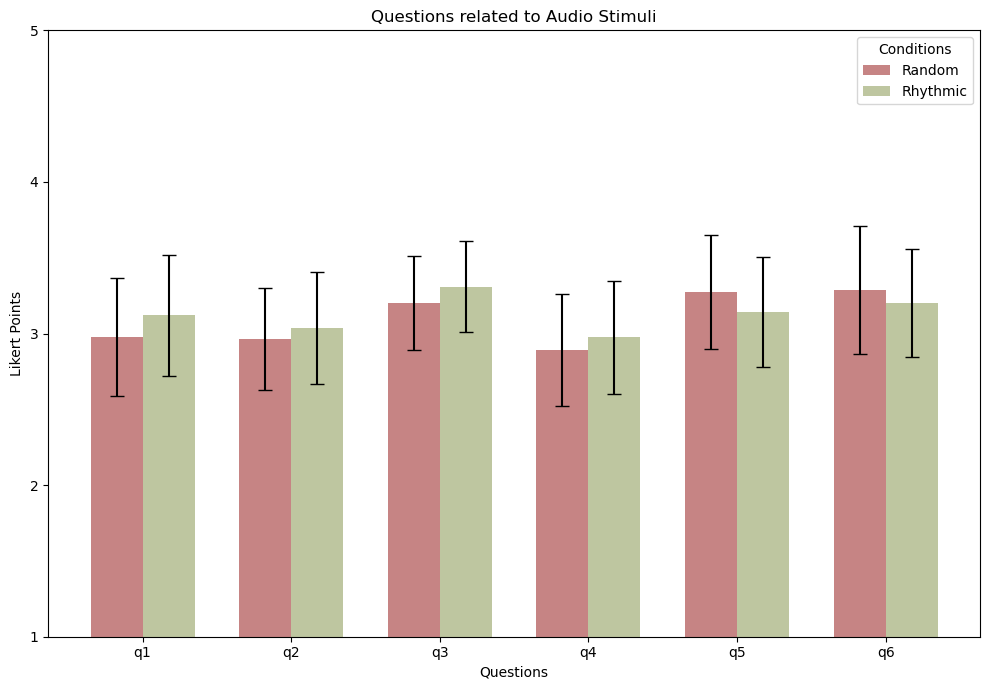
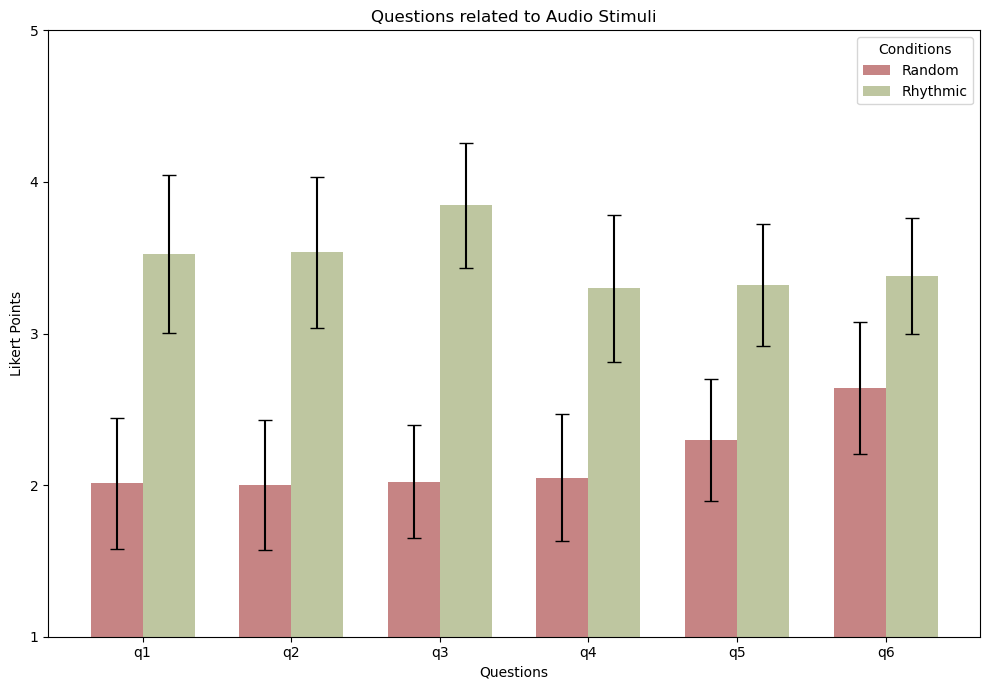
introduction and results fixed

diff --git a/Chapters/Introduction.tex b/Chapters/Introduction.tex
@@ -6,32 +6,26 @@ Even though a decrease in disability has been observed, stroke remains the leadi
 
 %% stroke: ischemic and hemorrhagic // cortical subcortical
 Stroke is divided in two main subtypes, drawn by the cause of it. The most common one results to be the ischemic stroke, it's produced by a blockage of blood vessels and comprehends TIAs (transient ischemic attacks) or mini-strokes, which only last for a few minutes up to 24 hours. The second type is the hemorrhagic stroke which is caused by bleeding in or around the brain, and it appears to cover just the 15\% of the cases \parencite{Abdu_2021}. \\
-On the other hand, if we look at the brain regions lesioned by stroke, it's possible to differentiate it between cortical and subcortical injuries. 
+On the other hand, if we look at the brain regions lesioned by stroke, it's possible to differentiate it between cortical and subcortical injuries, which can alter different cognitive (e.g. language, space orientation) and physical abilities (e.g. motor impairment, weakness), depending on the specific cerebral area and lobe affected. 
 
-% The mechanisms controlling the large-scale temporal coordination of infra-slow activity are unclear, particularly whether specific regions play a leading role in orchestrating global changes in connectivity patterns. A leading hypothesis is that shifts in brain states at rest, or during tasks, depend on highly interconnected cortical regions (hubs), e.g., precuneus, posterior cingulate cortex, and lateral prefrontal cortex, that flexibly interact at different points in time with different networks20–22. However, recent studies have also shown hubs in subcortical regions (basal ganglia23, thalamus23,24, hippocampus20,25–27). Whether cortical synchronization also relies on subcortical regions is still poorly known. Clinical work has shown FC dynamics alterations in a variety of non-focal conditions (neurodegeneration, consciousness abnormalities, schizophrenia, autism)17,19,28–31, which suggests that even more pronounced alterations should occur in focal conditions. Focal lesions, such as those induced by stroke, provide an ideal testbed to study the relations between brain structure and dynamics, since they considerably amplify the natural range of inter-subject variability in anatomical as well as functional connectivity. Subcortical lesions produce widespread functional alterations of the ‘static’ network structure—an anomalous inter-hemispheric segregation and intra-hemispheric integration32–34. Recent studies indicate that lesions induce anomalies also at the dFC level, altering the dynamic balance between integration and segregation35–37. However, which structural changes determine these functional anomalies, and how the interplay between cortex and subcortex contributes to them, has never been thoroughly investigated. (Favaretto, 2022)
+%% Gait impairment
+One of the major consequences of experiencing a stroke is impaired gait: a total of 80\% \parencite{Gomez_2020} of patients have an impaired walking ability, with 50\% of patients who are completely unable to walk, 12\% who can walk with assistance, and 37\% can walk independently \parencite{Balaban_2014}. \\
+In those cases, gait can result as hemiplegic, slower in speed and cadence and as well as shorter stride length. The balance of the locomotor control is shift due to the lesion in the central nervous system (CNS) affecting automaticity, proprioception, balance, anxiety state and multisensory feedback, which will impair walking abilities (Clark, 2015). \\
 
-%n ---- Jingchun Liu, 2022
-% Subcortical ischemic stroke can lead to structural damage to brain regions adjacent to the stroke lesion and to specific regions of cerebral cortex remote from the lesions (Conrad et al., 2021; Liu et al., 2015), possibly by the mechanism of axonal degeneration (Yu et al., 2009). In response to the structural damage caused by subcortical stoke, some cerebral cortical regions can reorganize themselves to facilitate recovery of the impaired neurological function (Brodtmann et al., 2012; Liu, Peng, et al., 2020). Structural damage and reorganization in the cerebral cortex can be assessed quantitatively in vivo using structural magnetic resonance imaging (MRI) followed by calculation of cortical thickness, surface area, and gray matter volume (GMV) from the imaging data (Gupta et al., 2019). In the past decade, many studies have reported structural alterations in the cerebral cortex in chronic patients with subcortical stroke (Cheng et al., 2020; Diao et al., 2017; Jones et al., 2016; Zhang et al., 2014). However, only a limited number of chronic cortical structural changes reported by one study can be replicated in other studies. The small sample sizes and the lack of independent replication may be one reason for this inconsistency across studies. Thus, the chronic structural changes reliably observed in the cortex after subcortical stroke should be investigated in large samples and replicated in independent data sets.
+%% article Belda-Lois, 2011
+Due to the wide spreading of gait impairment in patients who suffered from a stroke, the recovery of walking ability is of the main aims in stroke rehabilitation. Recently rehabilitation techniques have been moving towards top-down approaches, which base the rehabilitation on the state of the brain after stroke. These techniques use a motor learning approach mainly through the integration of sensory feedback, which helps the proprioception of the body thanks to sensory-motor adaption. \\
+Auditory feedback has been a fundamental sensory feedback for gait rehabilitation, being used as a real-time cue to correct movement and redirect walking. Together with auditory stimuli, visual ones have been employed in different neurophysiological rehabilitation techniques, such as in Proprioceptive neuromuscular facilitation (PNF) or Motor Imagery (MI). \\
+Movement sonification has also been engaged, here the physical properties of the human movement are being translated to audio parameter (e.g. the speed or position of the body are translated into volume or timbre of audio sounds) enhancing motor learning based on motor perception and its representation (Effenberg, 2016).  
 
-% The corticospinal tract (CST) is the most important white-matter tract for motor output in the human brain, and the impairment of the CST has been associated with motor outcomes in patients with subcortical stroke (Lin et al., 2019; Stinear et al., 2007). Although the CST mainly originates from M1, it also contains contributions from the premotor cortex (PMC), SMA, and primary somatosensory area (S1) (Schieber, 2007; Welniarz et al., 2017). Liu, Wang, et al. (2020) have reconstructed a fine-grained map of the CST fibers showing their different cortical origins, and have associated impairments of different subsets of these CST fibers with different brain structural and functional changes in patients with subcortical stroke. However, the correspondence between early impairment of specific CST fibers and subsequent slow trends in cortical structural parameters has not been systematically investigated in patients with subcortical stroke.
-
-% Many studies have associated cortical structural changes with neurological outcomes (Khlif et al., 2021; Ueda et al., 2019) or motor outcomes (Ueda et al., 2019) in patients with subcortical stroke. Subcortical stroke patients with different degrees of recovery appear to have different patterns of cortical structural change in the chronic stage and different trajectories of evolving cortical change poststroke. For example, stroke patients achieving only partial recovery (PR) show more significant reductions in cortical thickness in the primary motor area than do those with complete recovery (CR; Zhang et al., 2014). However, the differences in the evolution patterns of cortical structural changes between stroke patients with different degrees of recovery remain largely unknown, and such information would be helpful for understanding the mechanisms of neurological recovery after subcortical stroke.
-
-The type of brain injury after suffering a stroke can alter higher and synthetic mental abilities such as language, spatial organization, disturbance in vision or memory loss, depending on the lobe and side of the brain that was impaired. Moreover, a cortical stroke can alter motor and sensory control, often consisting of a hemiparesis affecting the distal extremities more than the proximal, the arm and lower face more than the leg, corresponding to the homunculus, our mental representation of the human body. \\
-On the other hand, subcortical strokes (also called small vessel strokes) affect brain structure lying below the cortex, including the thalamus, basal ganglia, brain stem, cerebellum or the internal capsule. The effects of subcortical strokes can often result in weakness and numbness on one side of the body (the opposite one to the stroke) and movement impairment. \\
-Since the majority of cases involve cortical strokes, research has mainly focused on this type, not focusing on how injury location can affect the process of recovery from a stroke \parencite{Karthikeyan_2019} at the physical nor neural level, which will try to be assessed later with this study. 
-
-%% incidence of Gait impairment in patients with stroke
-As mentioned earlier, motor impairments and upper limb hemiparesis, are much more common in stroke patients, almost 80\% of them are affected; they are generated by damages to cortical regions (e.g. primary motor cortex), subcortical ones (e.g. basal ganglia) or the corticospinal tract. Motor impairments consist of muscle weakness, impaired selective motor control, spasticity, and proprioceptive deficits, which influence gait. The latter appears impaired with a strong asymmetry, which is one of the main aspects of recovery in post-stroke rehabilitation, with an efficiency of almost 50\% of patients reacquiring their ability to walk independently. Since post-stroke gait dysfunction is one of the most investigated neurological gait disorders, various rehabilitative methods have been used, but the specific roles of the brain in these processes still need to be completely assessed \parencite{Balaban_2014}. 
-
-%% Marta comment: Before introducing neural entrainment, you should add information regarding the use of audiovisual stimuli to integrate walking movement as rehabilitation technique. Then, you introduce neural entrainment as a the neural mechanism behind the integration or cortical processing of sensory stimuli
+Sensory feedback employed for movement rehabilitation induce biological motion perception. Studying the neurological processes that underline motion perception, results as a complex goal, since multiple social cues perception and process are involved. In order to isolate only the interested brain activity related to motor perception a new paradigm studying neural entrainment through electroencephalogram with a frequency-tagging approach, with a neutral visual stimulus of a point-light figure walking, has been proposed by \cite{Cracco_2022}. 
 
 %% neural entrainment: definition
 Neural entrainment or sensorimotor synchronization is defined as unidirectional synchronization of neural oscillations to an external rhythmic stimulus \parencite{Lakatos_2019, Haegens_2018}; an action is rhythmically coordinated with a predictable external stimulus \parencite{Pressing_1999}. We use rhythmic synchronization between the auditory and motor systems in many of our everyday behaviors, one of the main being speech. Our brain leans towards a natural synchronization of its movement with endogenous rhythmic signals \parencite{Large_2009}. Such alignment of motor and sensory rhythm at the neural level can be detected in music, dance, sports, rhythmic tasks and verbal communication \parencite{Rosso_2023}. Sensorimotor entrainment can be driven by a status of phase- and frequency-locking of neural oscillations, which will reflect the changes in the external sensory through neuronal excitability  \parencite{Lakatos_2005}. 
 
 %% frequency tagging approach (what is it and why it looks like the best methodology)
-% HERE CITE CRACCO \Parencite{Cracco_2022}
-Research investigating neural entrainment has usually employed the finger-tapping paradigm with visual and auditory stimuli repeated isochronously, which neurotypical individuals would entrain their movement to; motor entrainment seems to occur due to the prediction of future events, based on the first two or three repetitions \parencite{Schmidt_1997}. \\
+A way that has been found successful to study neural entrainment is the frequency-tagging approach, where a brain response is elicited through a repeated cycle movement; if the aim is movement perception related to walking the brain response can be elicited at the end of every footstep \parencite{Cracco_2022}. \\
+Brain activity will synchronize with the sensory stimulus, rapidly entraining motor responses: the cognitive and sensory processes present in neural entrainment are reflected in neural oscillation signal obtained through EEG (Thut et al., 2012).
+
 Active sensory and cognitive processes during rhythmic synchronization are represented by neural oscillations that can be observed through electroencephalography (EEG): EEG signals result in time-locked to re-occurring sensory stimuli. \\
 State-of-the-art approaches tag frequencies of a rhythmic stimulation in the power spectrum of EEG in order to quantify neural entrainment \parencite{Nozaradan_2011}: the "frequency tagging" methodology converts brain signals into their frequency components. 
 
@@ -40,21 +34,12 @@ The usage of frequency tagging with electroencephalography results in the most a
 From previous research, it can be observed that listening to repeated beats activates cortical oscillation evoked from auditory stimuli and anticipations of it \parencite{Snyder_2005}; brain regions that activate during auditory-motor entrainment include: the cerebellum \parencite{Grahn_2011}, inferior colliculus \parencite{Tierney_2013} and basal ganglia \parencite{Thaut_2009}. \\
 Nevertheless, the perception of auditory and visual information related to movement is a higher-order cognitive process that necessitates the intricate involvement of multiple brain areas and their interconnections, which include the specific activation of cortical hubs, located at the top cortical networks, that enable sensorimotor integration.
 
-Recognizing the ability of the brain to synchronize neural activity with the rhythms of external stimuli, our study intended to elicit such entrainment by auditory and visual stimuli in individuals who suffered from a stroke, so that later these stimuli would facilitate the process of gait rehabilitation, activating spontaneously the motor cortex and enhancing movement correspondent to their rhythm. Furthermore, research has demonstrated that sensory inputs are crucial in motor rehabilitation, underlying how impactful they are for post-stroke recovery \parencite{Chen_2018}.\\
-Yet, since cortical and subcortical areas were depicted as facilitators for motor alignment thanks to the ability of beat-based time-keeping \parencite{Cannon_2021}, we expect differences of brain activation in stroke patients compared to healthy subjects, but still, visible neural entrainment elicited by repeated rhythmic multisensory stimuli. 
+%% aim of the study
+In conclusion, research proved that the auditory and visual feedback can elicit motor responses by neural entrainment in the motor cortex, generating synchronized brain oscillations to the rhythm of the stimuli; furthermore different studies demonstrated that such feedbacks play a key role in stroke gait rehabilitation \parencite{Chen_2018}, facilitating motor automaticity, redirection and action.
 
-%% 2 Hz part: the stimuli were previously used in a pilot study, only with healthy participants that aimed to discover at which frequency the stimuli presented were able to activate cerebral regions of interest that could integrate them. For such goal, in the previous research all the stimuli were played at different frequencies (1, 2, 3.6 Hz), whilst in the present one, they were only used at the frequency of 2 Hz, which appeared to be the best fitting one for neural entrainment. 
+Even if gait rehabilitation in stroke results much investigated, not many studies have examined the neural activation related to the integration of multisensory feedback. For this reason the aim of the present study is to investigate the brain dynamics supporting the sensorimotor synchronization when coupling auditory and visual inputs related to walking movement, comparing control healthy subjects and patients who suffered from a stroke. \\
+The study will be conducted using electroencephalogram frequency tagging approach, aiming to elicit neural entrapment with visual and auditory stimuli at the frequency of 2 Hz, which has been proven to be the most indicated to activate the sensorimotor cortex in healthy subjects by previous study (Matamala-Goméz et al. in preparation).\\
+Looking at the results of the previous study conducted with multiple frequencies only on healthy subjects, we expect to find a higher brain activation related to the auditory inputs played at 2 Hz, with an activation of the temporal and sensorimotor cortex. On the other hand, for the visual stimuli we expect an activation of the occipital area and a weaker elicitation of the sensorimotor cortex. For all the sensory inputs we predict to see a significant higher neural synchronization in the stimuli a rhythmic sequence rather than in a random one. \\
+Finally, for what concerns the results related to the stroke population, we may see some difference from the control group in the brain activation due to the brain injuries that they've suffered: a lateralized arousal  in the contralateral area of the lesion, or a contrast in the intensity of such arousal could be seen.
 
-%%% --- aim of the study --- %%%
-The present study aims to precisely determine the role of the brain affected by a cortical or subcortical stroke in the integration of different stimuli that trigger neural entrainment. 
-% The introduction should be improved. We have to explain that we are showing the sensory inputs at 2 Hz. based on previous research. Because 2 Hz frequency seems the most indicated to activate the sensorimotor cortex in healthy subjects. Then we have to explain that the aim of this study is to compare the cortical integration or brain dynamics when presenting audio and visual stimuli related to walking movement at to 2 Hz frequency.
-
-% Marta article: The aim of this study is to investigate brain dynamics supporting rhythmic sensorimotor synchronization when coupling auditory and visual inputs related to walking movement presented at different frequencies 1 2 and, 3 6 Hz) using an EEG frequency tagging approach.
-
-%%% --- useful for the results --- %%%
-% Neural oscillation signals obtained through electroencephalography (EEG) consistently reflect specific cognitive and sensory processes (Thut et al., 2012). Frequencies in the delta (1–3 Hz), theta (4–7 Hz) and alpha (8–12 Hz) bands are shown to be part of a hierarchical network of oscillators involved in predictive sensory processing (Arnal et al., 2014). Delta oscillations are associated with decision making and attentional processes (Güntekin and Başar, 2016), while theta band activity is associated with cognitive control across brain networks Cavanagh and Frank, 2014). Frequencies in the alpha range are associated with entrainment using visual stimuli (Keitel et al., 2014; Spaak et al., 2014). Beta activity (13–30 Hz) is associated with anticipation and predictive timing (Arnal et al., 2011), and gamma band activity (30–80 Hz) is associated with top-down attentional control (Debener et al., 2003; Tiitinen et al., 1993)
-
-% Additionally, across segments, the degree of phase-locking for frequency-specific EEG oscillations can be measured (Lachaux et al.,  1999; Roach and Mathalon, 2008). When data are summed across trials, the activity represents evoked and induced responses. To obtain a measure of induced activity, the evoked activity is subtracted from the summed activity. 
-
-% At the basic level, neurons in the primary auditory cortex have a dual representation of the repetition rate of a stimulus, by discharge rate, and by synchronized firing patterns of a group of neurons (Bendor and Wang, 2007; Eggermont, 2001).
-% The observation that target frequencies dominate the spectrum has been commonly taken as evidence for the underlying entrainment of neural oscillations (e.g., Nozaradan et al., 2011 ; Nozaradan et al., 2012 ; Lenc et al., 2018 ), which is not exempt from critiques
+% Yet, since cortical and subcortical areas were depicted as facilitators for motor alignment thanks to the ability of beat-based time-keeping \parencite{Cannon_2021}, we expect differences of brain activation in stroke patients compared to healthy subjects, but still, visible neural entrainment elicited by repeated rhythmic multisensory stimuli. 

diff --git a/Chapters/Results.tex b/Chapters/Results.tex
@@ -20,16 +20,19 @@ As in the control group, the random condition present a general weak brain activ
 Finally, the difference between the two conditions confirms the activation of the diverse ROIs related to the corresponding sensory inputs, resulting more feeble than the ones found in the control group. 
 
 \section{Behavioral results}
-For the analysis of the behavioral results, we firstly made various bar plots divided for population groups and sensory inputs. Firstly, in Figures \ref{fig: bar_visual_control}, \ref{fig: bar_audio_control} and \ref{fig: bar_audiovisual_control}, we can find the results related to the control group: here we can see that the questions related to the visual stimuli differ significantly between random and rhythmic conditions, with higher values for the rhythmic condition. These results are confirmed by the report \textit{p} value in the statistical table in Figure \ref{fig: significance_control_pop}. On the contrary, the bar plot related to the audio stimuli show a small difference between the random and rhythmic condition (always in favor of the rhythmic one) in all the questions, which doesn't result significant. Finally, the results associated with the audiovisual stimuli, depict no significant difference between conditions, sometimes showing the same values for random and rhythmic and in other cases a slightly higher level for the questions related to the random stimuli. 
+For the analysis of the behavioral results, we firstly made various bar plots divided for population groups and sensory inputs. Firstly, in Figures \ref{fig: bar_visual_control}, \ref{fig: bar_audio_control} and \ref{fig: bar_audiovisual_control}, we can find the results related to the control group: here we can see that all the questions related to every sensory stimulus differ significantly between the random and rhythmic conditions, with higher values for the rhythmic condition. These results are confirmed by the report \textit{p} value in the statistical table in Figure \ref{fig: significance_control_pop}. \\
+From the graphical representation and the statistical results we can also detect that the question with the higher values in the rhythmic condition results to be the third one in all the stimuli, which refers to the perception of the movement fluidity by the subject. While this question appears as the one expressing the biggest difference between the two conditions, the last three question in every sensory inputs (q4, q5 and q6) emerge to be the ones with lower differences between random and rhythmic, still being significant.
 
-Moving on to the outcome of the questions answered by the stroke group, which can be found in Figures: \ref{fig: bar_visual_stroke}, \ref{fig: bar_audio_stroke} and \ref{fig: bar_audiovisual_stroke}, quite a few differences can be noticed from the control group. In the bar plot related to the visual inputs, a significant difference between the two conditions can be found in all the questions, even with higher values in the random conditions, compared to the control group. \\
-For what concerns the audio stimulus, the conditions result to differ more than in the control group, with a significant \textit{p} value in the first question (Figure \ref{fig: significance_stroke_pop}). Lastly, the questions related to the audiovisual stimulus, received generally higher Likert values compared to the control group, although the difference between random and rhythmic results similar to the one obtained in the other population, with no difference or higher values for the random condition instead of the rhythmic one. 
+Moving on to the outcome of the questions answered by the stroke group, which can be found in Figures: \ref{fig: bar_visual_stroke}, \ref{fig: bar_audio_stroke} and \ref{fig: bar_audiovisual_stroke}, similar results to the control group can be observed, with some slight differences. Firstly, we can affirm that equally to the previous results, a significant difference between all the questions related to the random and rhythmic for each sensory input, can be found (Figure \ref{fig: significance_stroke_pop}). \\ However, in the stroke population we can see that the difference appears to be generally lower compared to the one observed in the control group, except for question three in all the sensory inputs, question four in the audio stimulus and five in the audiovisual one. In general, we can conclude that the Likert values assigned to the questions referred to the random stimuli of all the sensory inputs appear as higher than in the control group.
 
-Later, we decided to correlate the most significant rhythmic question (q2) to the mean power activity of the Occipital, Temporal and Sensorimotor ROIs, dividing them always by population. To represent such correlations we made different scatter plots for each ROI, that can be found from Figure \ref{fig: correlation q2 occipitalROI: control group} for the control group and from Figure \ref{fig: correlation q2 occipitalROI: stroke group} for the stroke group. Additionally, a table with the Spearman coefficient \textit{r} and \textit{p} values can be encountered in Figures \ref{fig: correlation values q2: control} and \ref{fig: correlation values q2: stroke}. \\
-Looking at the results for the control group we can observe that the scatter plots result quite similar among ROIs, and that no correlation was found between the question related to the various sensory input and the power brain activity. The data distribution in all the different plots looks spread, with a bigger concentration towards the higher Likert points and the lower values in the brain activity power spectrum. The lack of correlation between the two variables is demonstrated statistically by the Spearman's coefficient and its \textit{p} values. 
+To confirm such difference between the two population groups, we decide to create a plot to visually compare them and to statistically compare their results. In Figure \ref{fig: mean_population_condition} we can recognize the distinction between the answers given by the stroke population and the control one to the random stimuli, and almost identical results for what concerns the rhythmic stimuli. If we then look at the statistical results (Figure \ref{fig: significance_total_mean_pop}) we can detect that the only significant result for the difference between the two population groups can be found for the answers related to the random visual inputs. 
 
-Contrarily, looking at the results for the stroke population we can find a significant positive correlation between the values assigned to the behavioral question related to the audio stimuli and the neural activation in the Temporal ROI; while a positive trend correlation in the Sensorimotor ROI. \\
-Moving to the question related to the other sensory inputs (visual and audiovisual), no significant correlation with the mean power activity of the different ROIs could be found as in the control group.
+Later, we decided to correlate the most significant rhythmic \footnote{The choice of taking into account only the question in the rhythmic condition was made after seeing the results related to the difference between the two conditions: seeing that the rhythmic one got always higher values than the random.} question (q2) to the mean power activity of the Occipital, Temporal and Sensorimotor ROIs, dividing them always by population group. To represent such correlations we made different scatter plots for each ROI, that can be found from Figure \ref{fig: correlation q2 occipitalROI: control group} for the control group and from Figure \ref{fig: correlation q2 occipitalROI: stroke group} for the stroke group. Additionally, a table with the Spearman coefficient \textit{r} and \textit{p} values can be encountered in Figures \ref{fig: correlation values q2: control} and \ref{fig: correlation values q2: stroke}. 
 
-Finally, we also aimed to see if a possible correlation between the level of physical activity of the participants and their correspondent mean power activation in their Sensorimotor area could be discovered. \\
-The scatter plots of such correlation can be found in Figures \ref{fig: correlation activeq control} and \ref{fig: correlation activeq stroke}, with their correspondent Spearman values in Table \ref{fig: significance correlation activeq}.
+Looking at the results for the control group we can observe that the scatter plots result quite similar among ROIs, and that no correlation was found between the question related to the various sensory inputs and the power brain activity. The data distribution in all the different plots looks spread, with a bigger concentration towards the higher Likert points and the lower and medium values in the brain activity power spectrum. The lack of correlation between the two variables is demonstrated statistically by the Spearman's coefficient and its \textit{p} values. \\
+Contrarily, looking at the results for the stroke population we can find a significant positive correlation between the values assigned to the behavioral question related to the audio stimuli and the neural activation in the Temporal ROI. \\
+Moving to the question related to the other sensory inputs (visual and audiovisual), no significant correlation with the mean power activity of the different ROIs could be found just as in the control group.
+
+Finally, we also aimed to understand if a possible correlation between the level of physical activity of the participants and their correspondent mean power activation in the Sensorimotor area could be present. \\
+The scatter plots of such correlation can be found in Figures \ref{fig: correlation activeq control} and \ref{fig: correlation activeq stroke}, with their correspondent Spearman values in Table \ref{fig: significance correlation activeq}. \\
+The obtained results show no correlation between the two level of physical activity and the activation of the sensorimotor area related to any of the sensory inputs.

diff --git a/Chapters/Discussion.tex b/Chapters/Discussion.tex
@@ -4,3 +4,20 @@ Discuss your results and their importance, for example, if you have worked with 
 % The observation that target frequencies dominate the spectrum has been commonly taken as evidence for the underlying entrainment of neural oscillations (e.g., Nozaradan et al., 2011 ; Nozaradan et al., 2012 ; Lenc et al., 2018 ), which is not exempt from critiques
 
 % These areas were chosen as ROIs because they were expected to be activated by the various stimuli: the visual stimuli should've activated the occipital ROI, the audio stimuli the temporal ROIs, the audiovisual both of these last ones; meanwhile the sensorimotor area was expected to activate when the neural entrainment would take place. 
+
+%%% --- useful for the results --- %%%
+% Neural oscillation signals obtained through electroencephalography (EEG) consistently reflect specific cognitive and sensory processes (Thut et al., 2012). 
+
+% Additionally, across segments, the degree of phase-locking for frequency-specific EEG oscillations can be measured (Lachaux et al.,  1999; Roach and Mathalon, 2008). When data are summed across trials, the activity represents evoked and induced responses. To obtain a measure of induced activity, the evoked activity is subtracted from the summed activity. 
+
+% At the basic level, neurons in the primary auditory cortex have a dual representation of the repetition rate of a stimulus, by discharge rate, and by synchronized firing patterns of a group of neurons (Bendor and Wang, 2007; Eggermont, 2001).
+% The observation that target frequencies dominate the spectrum has been commonly taken as evidence for the underlying entrainment of neural oscillations (e.g., Nozaradan et al., 2011 ; Nozaradan et al., 2012 ; Lenc et al., 2018 ), which is not exempt from critiques
+
+%%% --- poster Marta
+% Frequency tagging measures a periodic change in voltage amplitude in the electrical activity recorded on the human scalp by using EEG when presenting stimuli repeated at a fixed rate1. Regarding auditory stimulation, some studies show a tonic synchronization response when using periodic auditory stimulation set at 2Hz2. Further, others found brain responses associated with biological motion perception by showing a point-light walker video moving at a pace of 2.4Hz3.
+% Movement sonification implies the mapping of movement signals into sound, that can be used for motor rehabilitation4. To date, none have investigated frequency tagging responses and the neural correlates related to movement sonification techniques for motor rehabilitation.
+% Aim of the study
+% In this study we aimed to evaluate the impact of sonification on walking ability as indexed by neural markers and brain dynamics on the sensorimotor, the auditory, and the visual cortex using a frequency tagging approach in healthy subjects.
+
+
+%% The idea of using auditory feedback in interactive systems has recently gained momentum in different research fields. In applications such as movement rehabilitation, sport training or product design, the use of auditory feedback can complement visual feedback. It reacts faster than the visual system and can continuously be delivered without constraining the movements. In particular, movement sonification systems appear promising for sensori-motor learning in providing users with auditory feedback of their own movements. Generally, sonification is defined as the use of non-speech audio to convey information (Kramer et al., 1999). Nevertheless, research on movement sonification for sensori-motor learning has been scattered in totally different research fields. On the one hand, most neuroscience and medical experiments have made use of very basic interactive systems, with little concern for sound design and the possible types of sonification. On the other hand, novel sound/music interactive technologies have been developed toward artistic practices, gaming or sound design, with little concern for sensori-motor learning.

diff --git a/Chapters/Appendix.tex b/Chapters/Appendix.tex
@@ -1,5 +1,5 @@
-\addcontentsline{toc}{chapter}{Appendix}
 \chapter*{Appendix: Figures}
+
 \section*{Experimental material}
 \begin{figure}[ht]
     \centering
@@ -15,7 +15,7 @@
 \end{figure}
 
 \clearpage
-\section*{Results}
+\section*{Results EEG data}
 \subsection*{Signal-To-Noise (SNR)}
 \subsubsection*{Control group}
 \begin{figure}[H]
@@ -150,11 +150,12 @@
 \end{figure} 
 \begin{figure}[H]
     \centering
-    \includegraphics[width=0.55\textwidth]{significance_tables/control_group.png}
+    \includegraphics[width=0.45\textwidth]{significance_tables/control_group.png}
     \caption{Significance of the results of behavioral questions in the control group, using Wilcoxon Signed-Rank Test (\textit{W})}
     \label{fig: significance_control_pop} 
 \end{figure} 
 
+\clearpage
 \subsubsection*{Stroke group}
 \begin{figure}[H]
     \centering
@@ -176,11 +177,12 @@
 \end{figure} 
 \begin{figure}[H]
     \centering
-    \includegraphics[width=0.60\textwidth]{significance_tables/stroke_group.png}
+    \includegraphics[width=0.45\textwidth]{significance_tables/stroke_group.png}
     \caption{Significance of the results of behavioral questions in the stroke group, using Wilcoxon Signed-Rank Test (\textit{W})}
     \label{fig: significance_stroke_pop} 
 \end{figure} 
 
+\clearpage
 \subsubsection*{Total results mean}
 \begin{figure}[H]
     \centering
@@ -270,4 +272,3 @@
     \caption{Correlation values: Spearman's correlation coefficient \textit{r} and \textit{p} value}
     \label{fig: significance correlation activeq} 
 \end{figure}
-

diff --git a/main.tex b/main.tex
@@ -25,6 +25,8 @@
 
 \usepackage{float}
 
+\usepackage[toc]{appendix}
+
 \linespread{1.5}
 
 \setcounter{secnumdepth}{3}
@@ -91,9 +93,11 @@
 
 \input{Chapters/Conclusion.tex}
 
+\begin{appendices}
+  \fancyhead[L]{APPENDICES}
 \input{Chapters/Appendix.tex}
+\end{appendices}
 
-% \nocite{*}
 \printbibliography[heading=bibintoc]
 
 \end{document}
